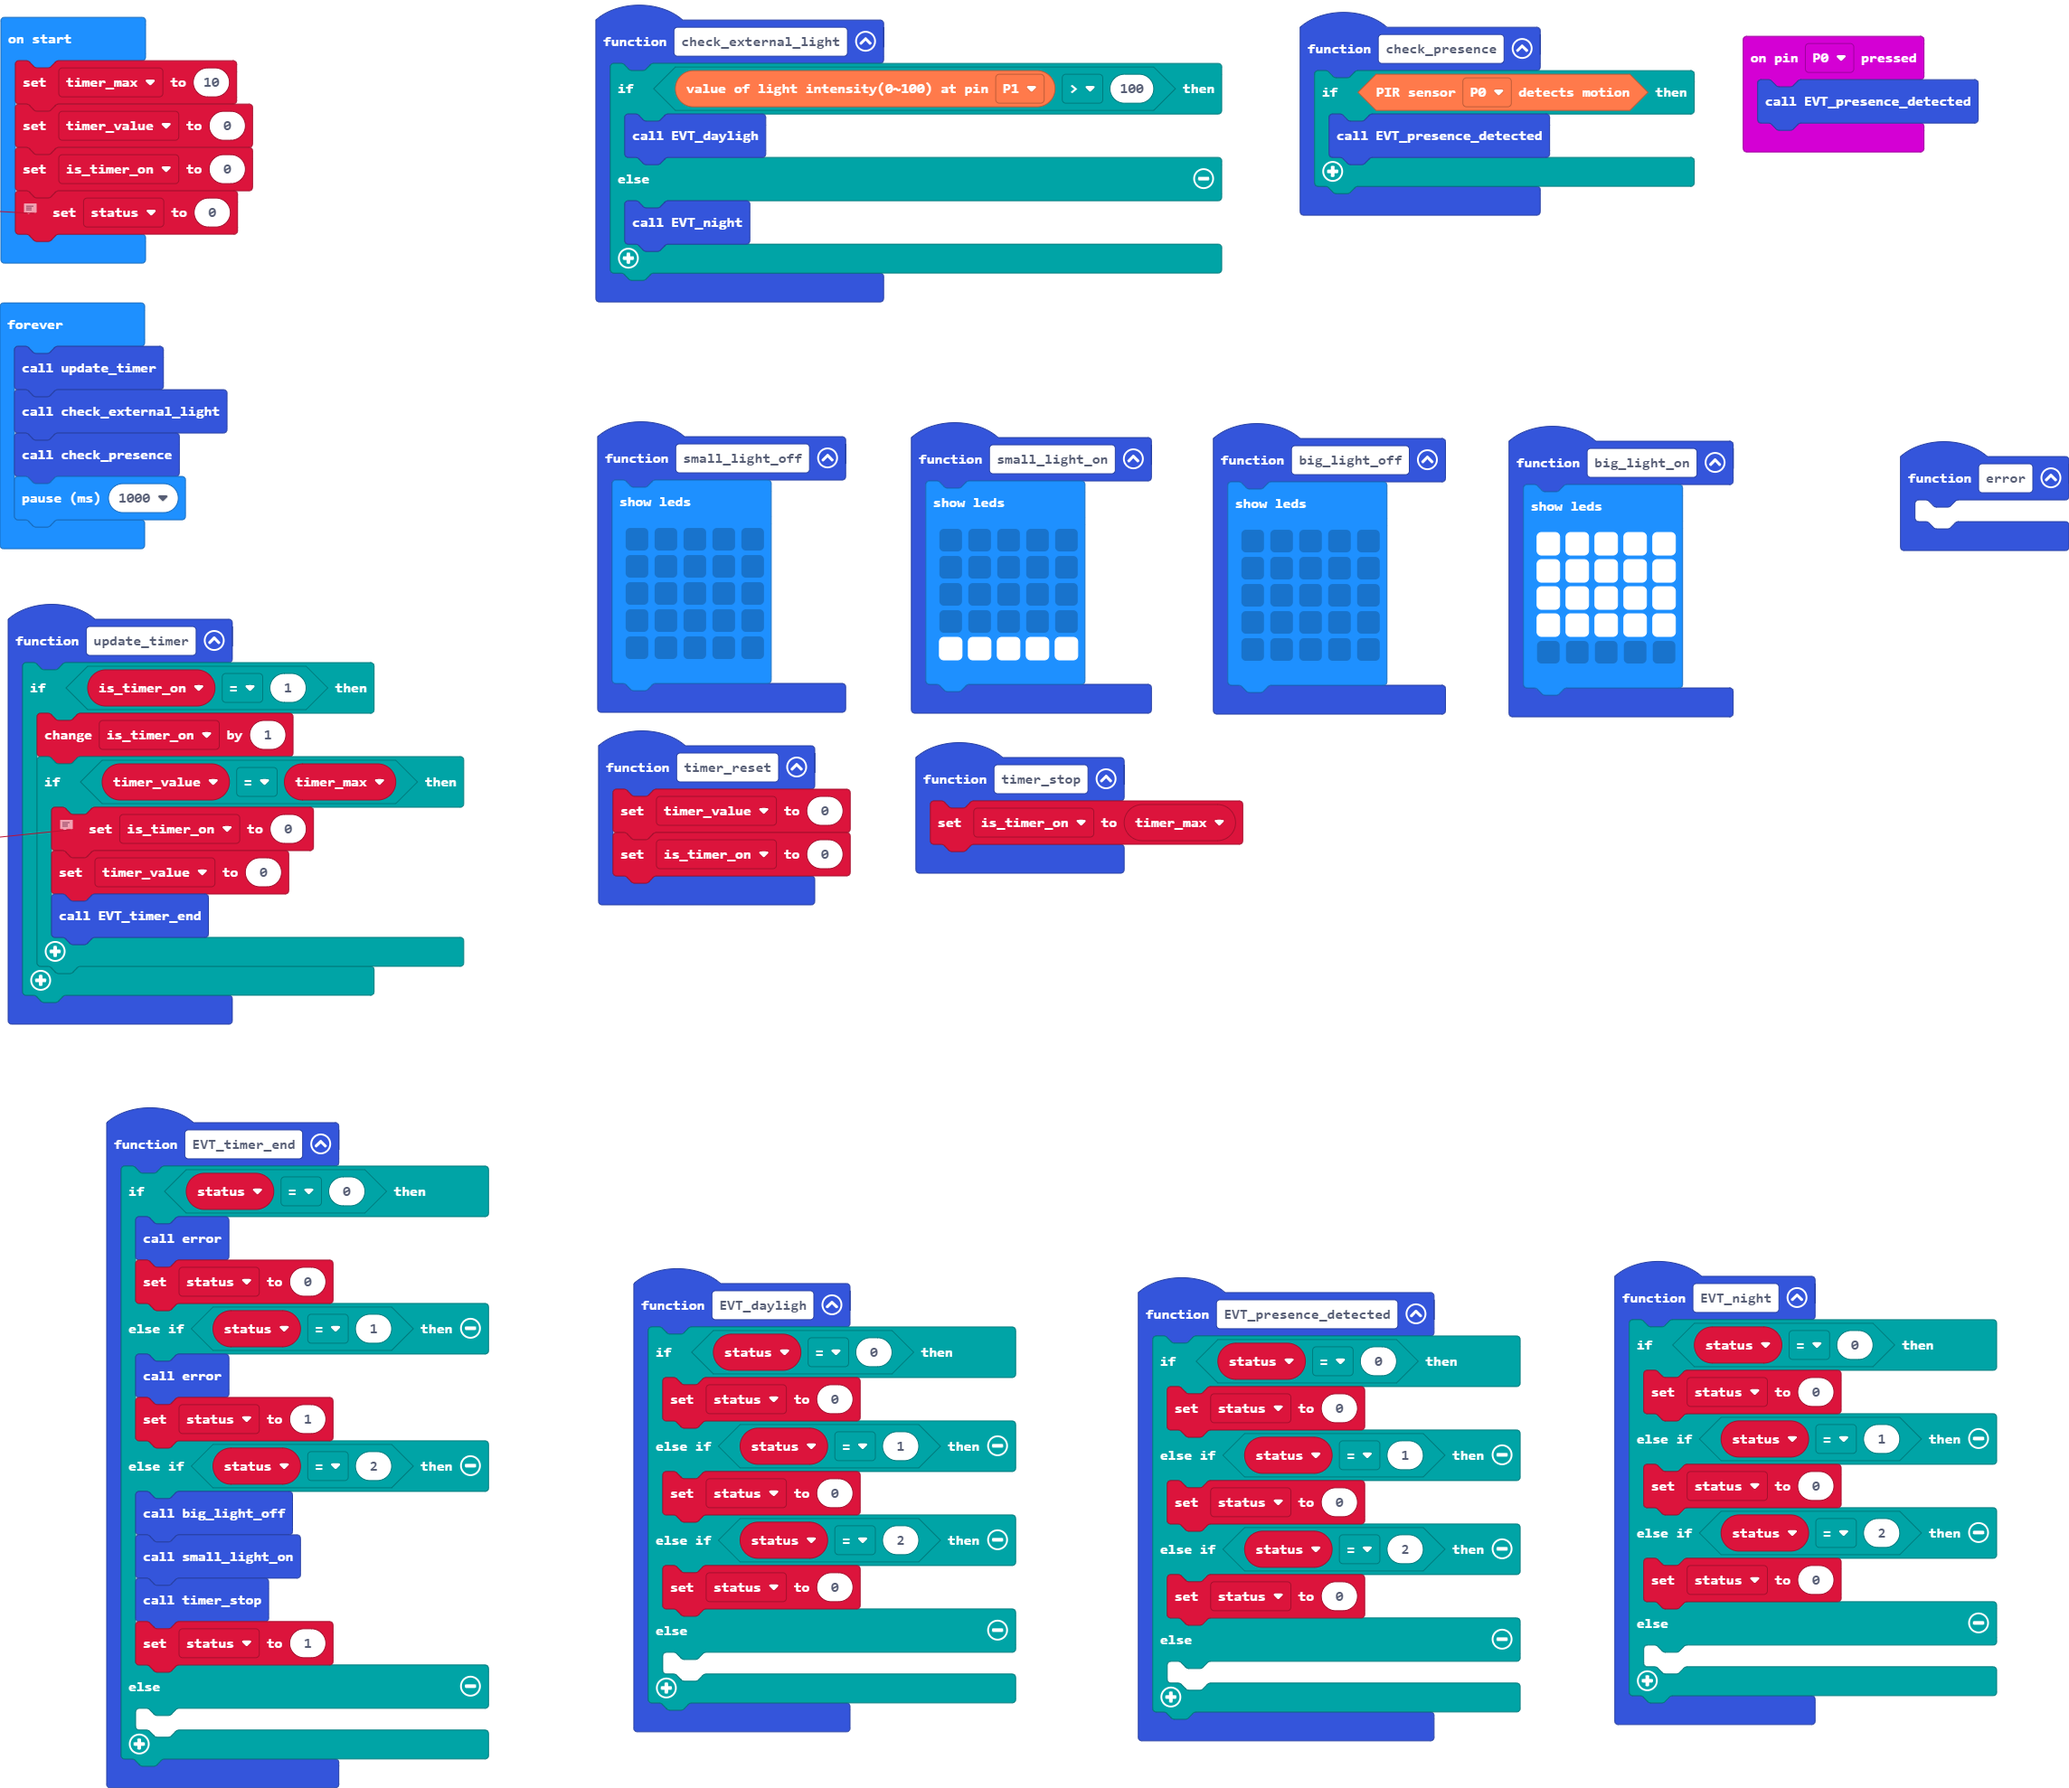
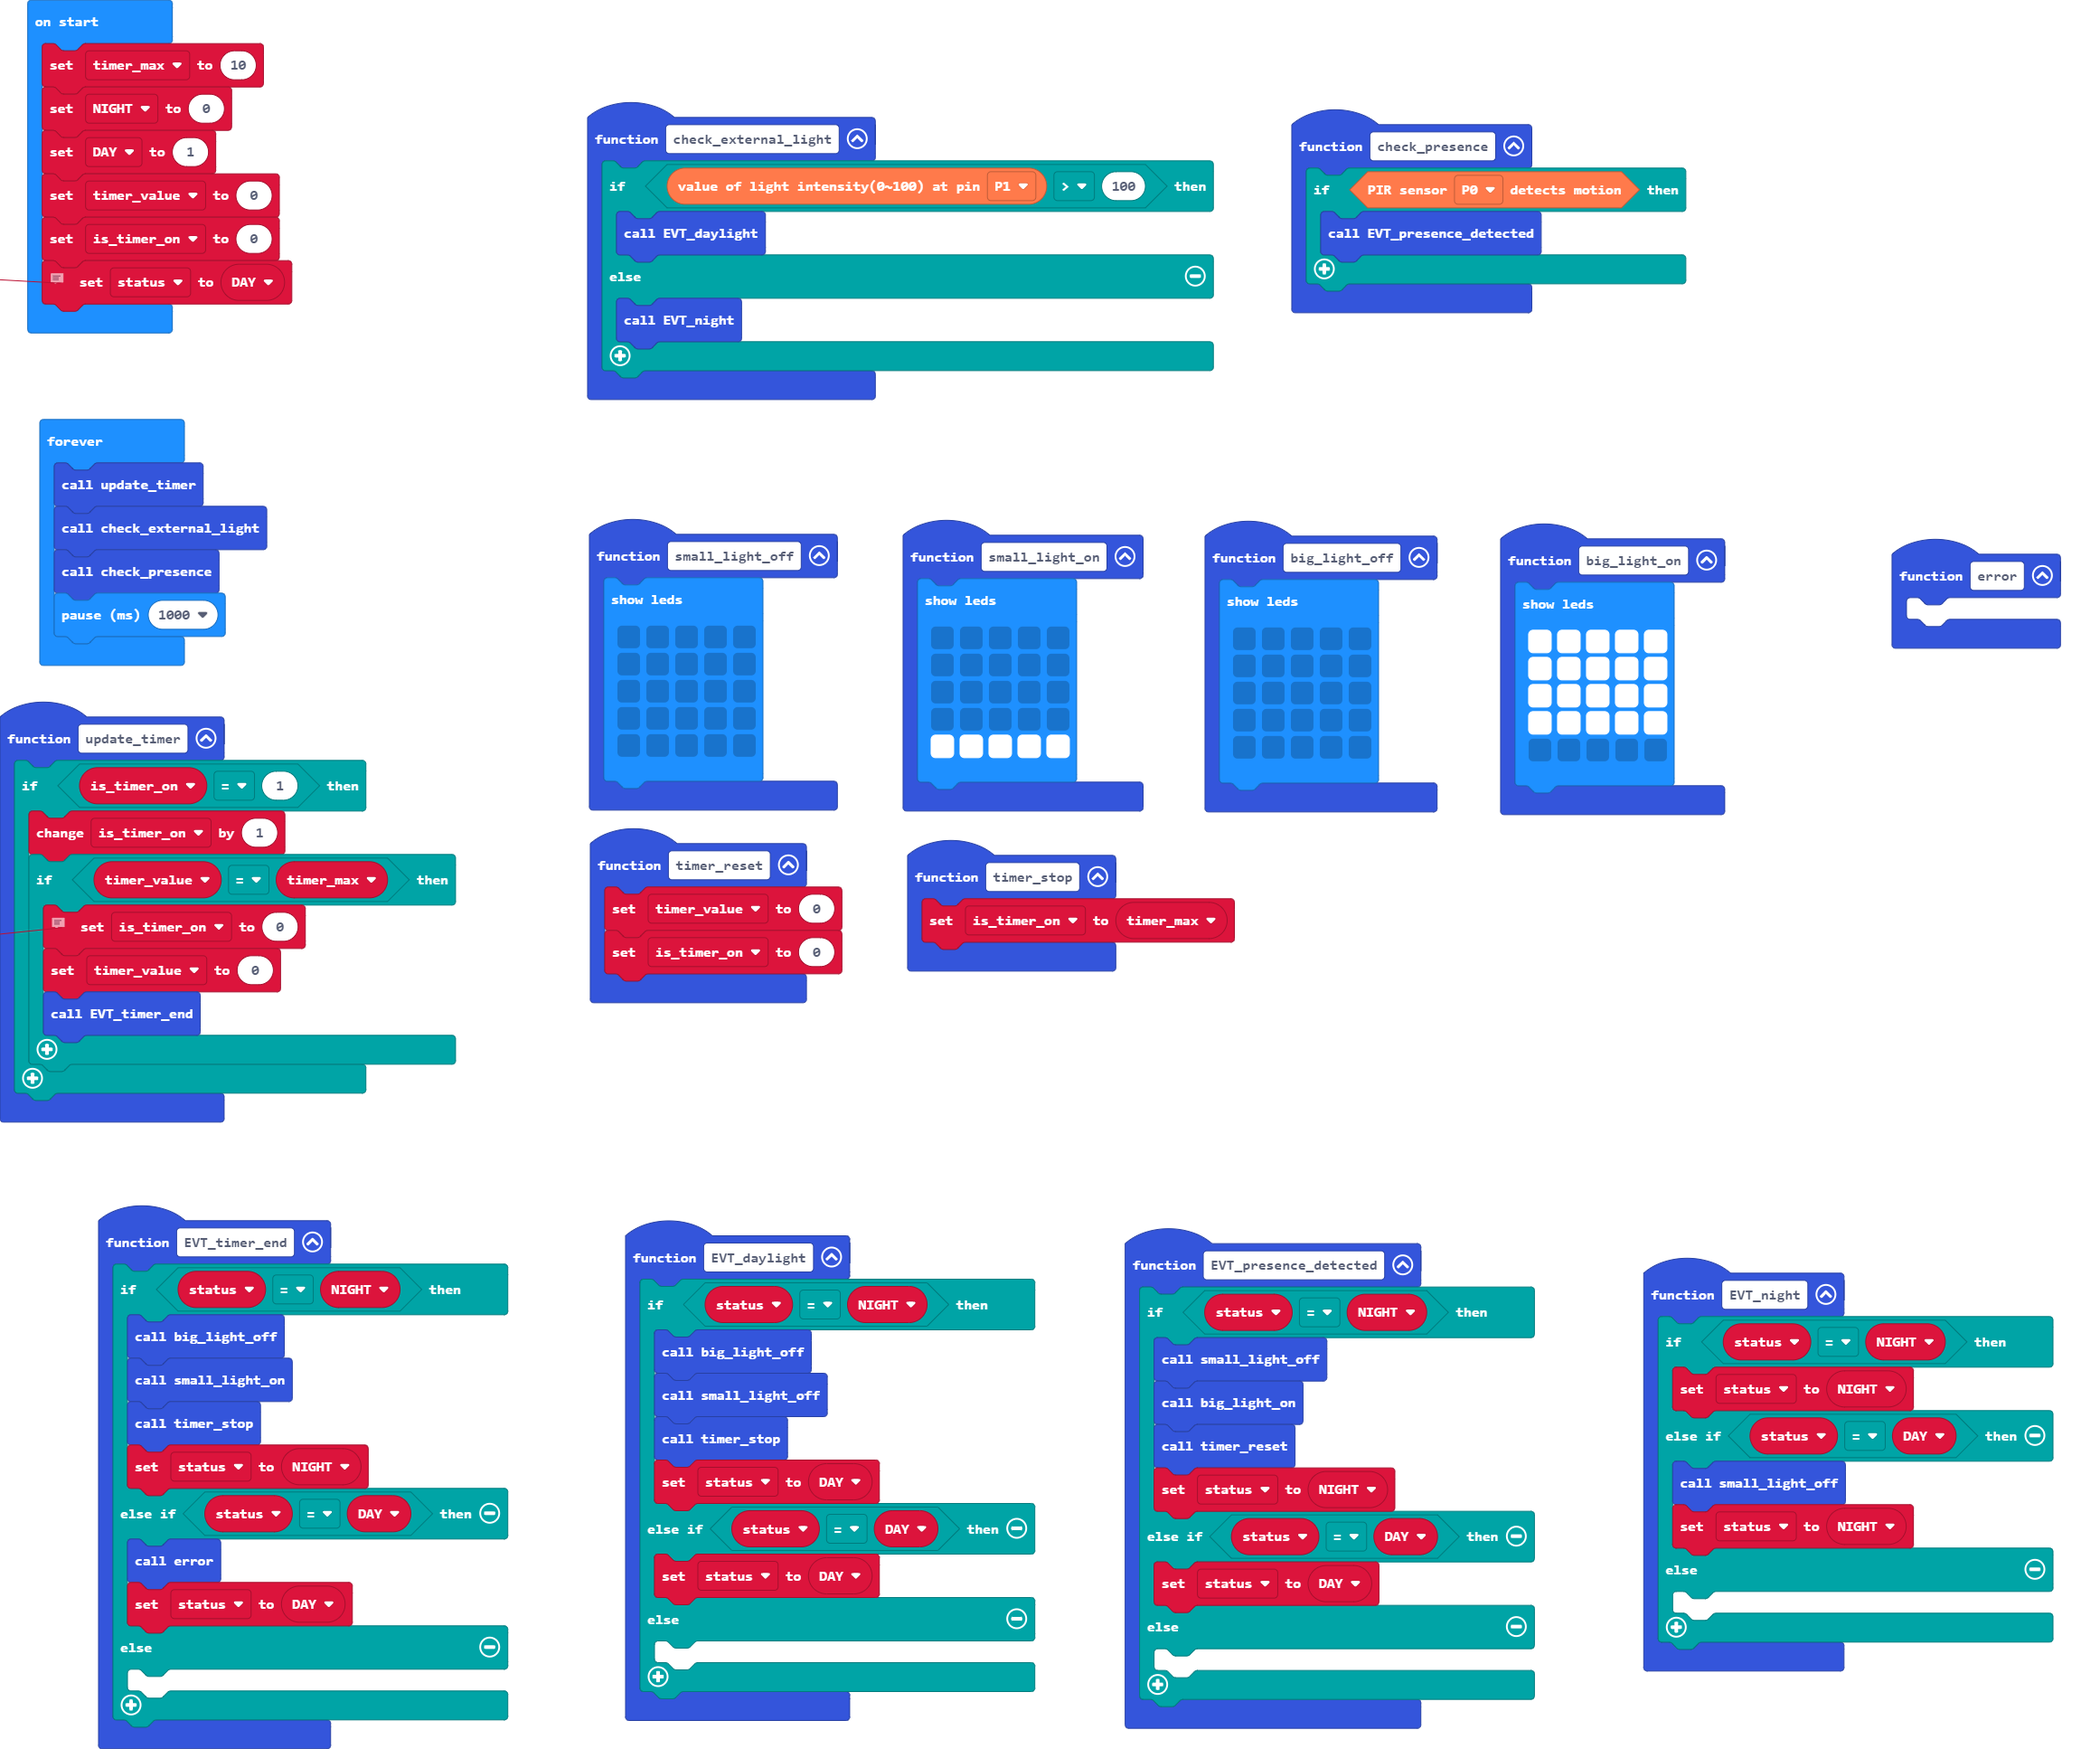
Updated version

diff --git a/main.ts b/main.ts
@@ -1,6 +1,3 @@
-input.onPinPressed(TouchPin.P0, function () {
-    EVT_presence_detected()
-})
 function big_light_on () {
     basic.showLeds(`
         # # # # #
@@ -9,17 +6,6 @@ function big_light_on () {
         # # # # #
         . . . . .
         `)
-}
-function EVT_dayligh () {
-    if (status == 0) {
-        status = 0
-    } else if (status == 1) {
-        status = 0
-    } else if (status == 2) {
-        status = 0
-    } else {
-    	
-    }
 }
 function small_light_on () {
     basic.showLeds(`
@@ -31,12 +17,11 @@ function small_light_on () {
         `)
 }
 function EVT_night () {
-    if (status == 0) {
-        status = 0
-    } else if (status == 1) {
-        status = 0
-    } else if (status == 2) {
-        status = 0
+    if (status == NIGHT) {
+        status = NIGHT
+    } else if (status == DAY) {
+        small_light_off()
+        status = NIGHT
     } else {
     	
     }
@@ -46,17 +31,14 @@ function timer_reset () {
     is_timer_on = 0
 }
 function EVT_timer_end () {
-    if (status == 0) {
-        error()
-        status = 0
-    } else if (status == 1) {
-        error()
-        status = 1
-    } else if (status == 2) {
+    if (status == NIGHT) {
         big_light_off()
         small_light_on()
         timer_stop()
-        status = 1
+        status = NIGHT
+    } else if (status == DAY) {
+        error()
+        status = DAY
     } else {
     	
     }
@@ -98,23 +80,36 @@ function big_light_off () {
 function timer_stop () {
     is_timer_on = timer_max
 }
+function EVT_daylight () {
+    if (status == NIGHT) {
+        big_light_off()
+        small_light_off()
+        timer_stop()
+        status = DAY
+    } else if (status == DAY) {
+        status = DAY
+    } else {
+    	
+    }
+}
 function error () {
 	
 }
 function check_external_light () {
     if (Environment.ReadLightIntensity(AnalogPin.P1) > 100) {
-        EVT_dayligh()
+        EVT_daylight()
     } else {
         EVT_night()
     }
 }
 function EVT_presence_detected () {
-    if (status == 0) {
-        status = 0
-    } else if (status == 1) {
-        status = 0
-    } else if (status == 2) {
-        status = 0
+    if (status == NIGHT) {
+        small_light_off()
+        big_light_on()
+        timer_reset()
+        status = NIGHT
+    } else if (status == DAY) {
+        status = DAY
     } else {
     	
     }
@@ -122,14 +117,17 @@ function EVT_presence_detected () {
 let status = 0
 let is_timer_on = 0
 let timer_value = 0
+let DAY = 0
+let NIGHT = 0
 let timer_max = 0
 timer_max = 10
+NIGHT = 0
+DAY = 1
 timer_value = 0
 is_timer_on = 0
-// 0 = DAYLIGHT
-// 1 = NIGHT OFF
-// 2 = NIGHT ON
-status = 0
+// 0 = NIGHT
+// 1 = DAY
+status = DAY
 basic.forever(function () {
     update_timer()
     check_external_light()
